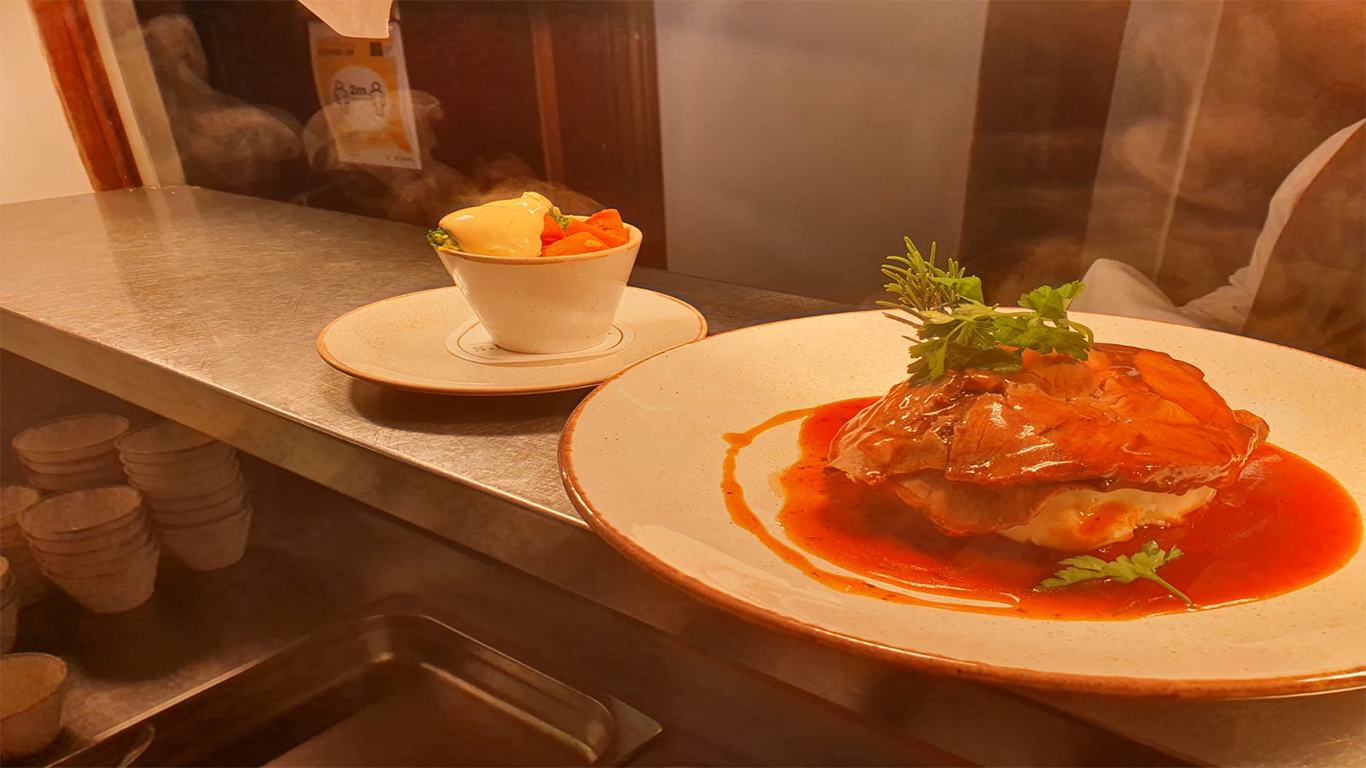
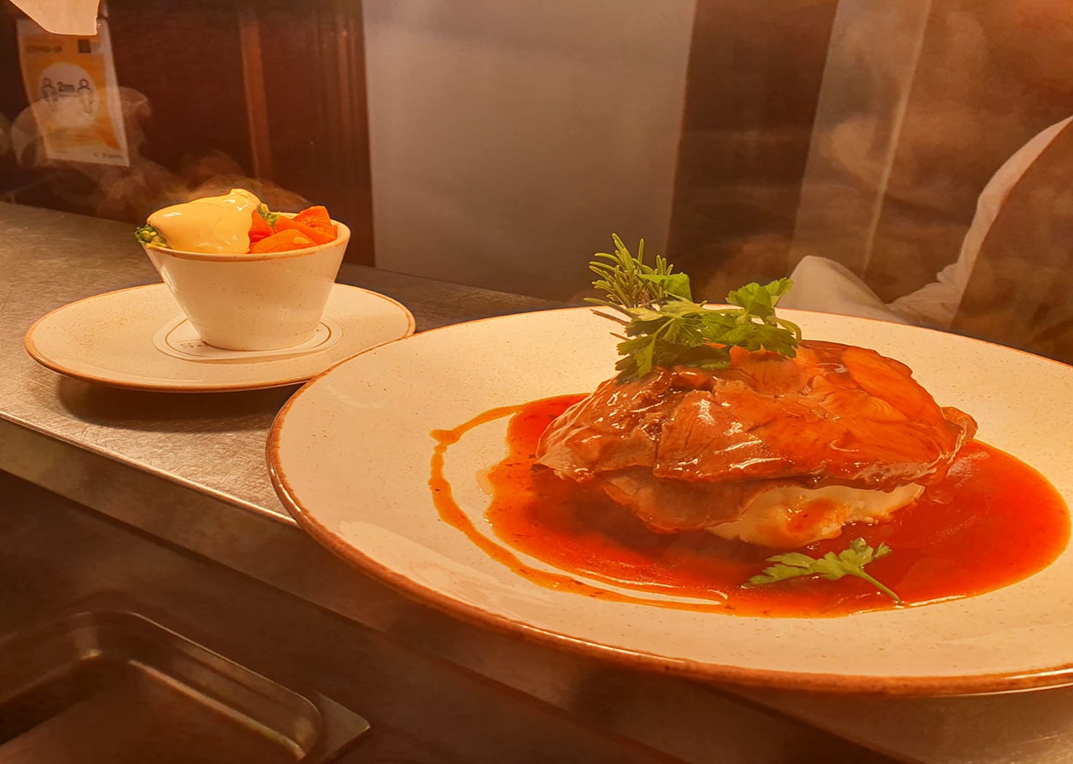
changed the main pic size and cropped it, added different style to the Top button and renamed it.

diff --git a/index.css b/index.css
@@ -9,15 +9,9 @@
 
 .nav-item {
     text-shadow: 0 0 8px rgb(245, 245, 241);
-    font-size: 1.1em;
-    
-    
+    font-size: 1.1em;    
 }
 
-.nav-item-2 {
-    text-shadow: 0 0 3px rgb(245, 245, 241);
-    font-size: 3em;    
-}
 .nav-flex-row {
     display: flex;
     flex-direction: row;
@@ -49,6 +43,7 @@
 
 /* ---Main picture section---*/
 
+
 .section-intro {
     height: 820px;
     background-image: url(assets/images/beef.png);
@@ -65,10 +60,15 @@
     font-size: 4em;
     font-weight: 700;
 }
+
+.nav-item-2 {
+    text-shadow: 0 0 3px rgb(245, 245, 241);
+    font-size: 2em;    
+}
   
 .name {
     color: black;
-    font-size: 3em;
+    font-size: 4em;
     text-shadow: 3px 3px white;
     font-family: 'Parisienne', sans-serif;
 }
@@ -568,21 +568,22 @@ label:hover {
         position: fixed;
         bottom: 10px;
         float: right;
-        right: 10%;
-        left: 90%;
-        max-width: 50px;
+        right: 15%;
+        left: 85%;
+        max-width: 60px;
         width: 100%;
-        font-size: 20px;
+        font-size: 15px;
         border-color: rgba(223, 21, 21, 0.2);
         background-color: rgb(161, 156, 156);
         padding: .5px;
         border-radius: 50px;
         box-shadow: 3px 3px 5px rgb(54, 54, 54);
+        font-family: 'Lato', sans-serif;
 
     }
 
     #myBtn:hover {
-        background-color: black;
+        opacity: 50%;
         
     }
 

diff --git a/index.html b/index.html
@@ -344,7 +344,7 @@
 
     <!-- Back to the top section -->
 
-<button id="myBtn"><a href="#top" style="color: white">^</a></button>
+<button id="myBtn"><a href="#top" style="color: white">Top</a></button>
 
 
     <!-- Footer section -->
@@ -368,14 +368,6 @@
         crossorigin="anonymous">
     </script>
       
-     <!-- <script src=
-"https://cdnjs.cloudflare.com/ajax/libs/popper.js/1.14.7/umd/popper.min.js"
-        integrity=
-"sha384-UO2eT0CpHqdSJQ6hJty5KVphtPhzWj9WO1clHTMGa3JDZwrnQq4sF86dIHNDz0W1"
-        crossorigin="anonymous">
-    </script> -->
-      
-
     <script src="assets/scripts/carousel.js"></script>
     <script src="assets/scripts/reservation.js"></script>
 
